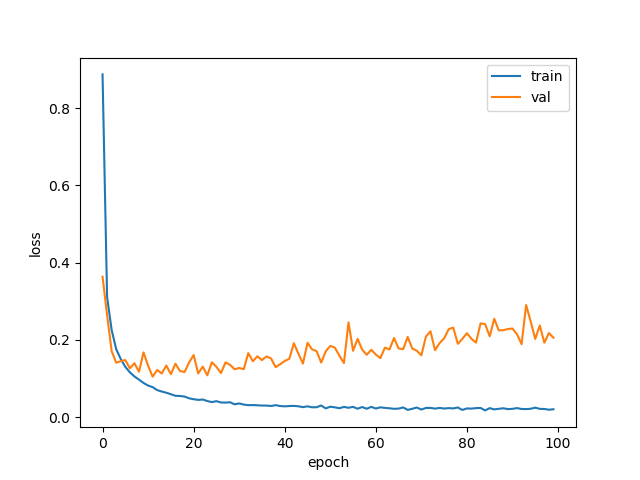
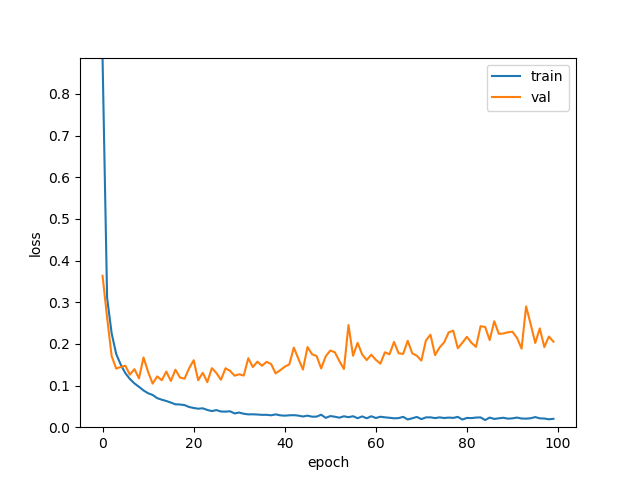
実験結果の更新

diff --git a/src/libs/graph.py b/src/libs/graph.py
@@ -25,6 +25,8 @@ def make_line(data_name:str, data:pd.DataFrame, save_dir:str) -> None:
     plt.plot(data["val_" + data_name], label="val")
     plt.xlabel("epoch")
     plt.ylabel(data_name)
+    if data_name=="loss":
+        plt.ylim(0,min(max(data["train_" + data_name].max(), data["val_" + data_name].max()),1))
     plt.legend()
     save_path = os.path.join(save_dir, data_name + ".png")
     plt.savefig(save_path)
